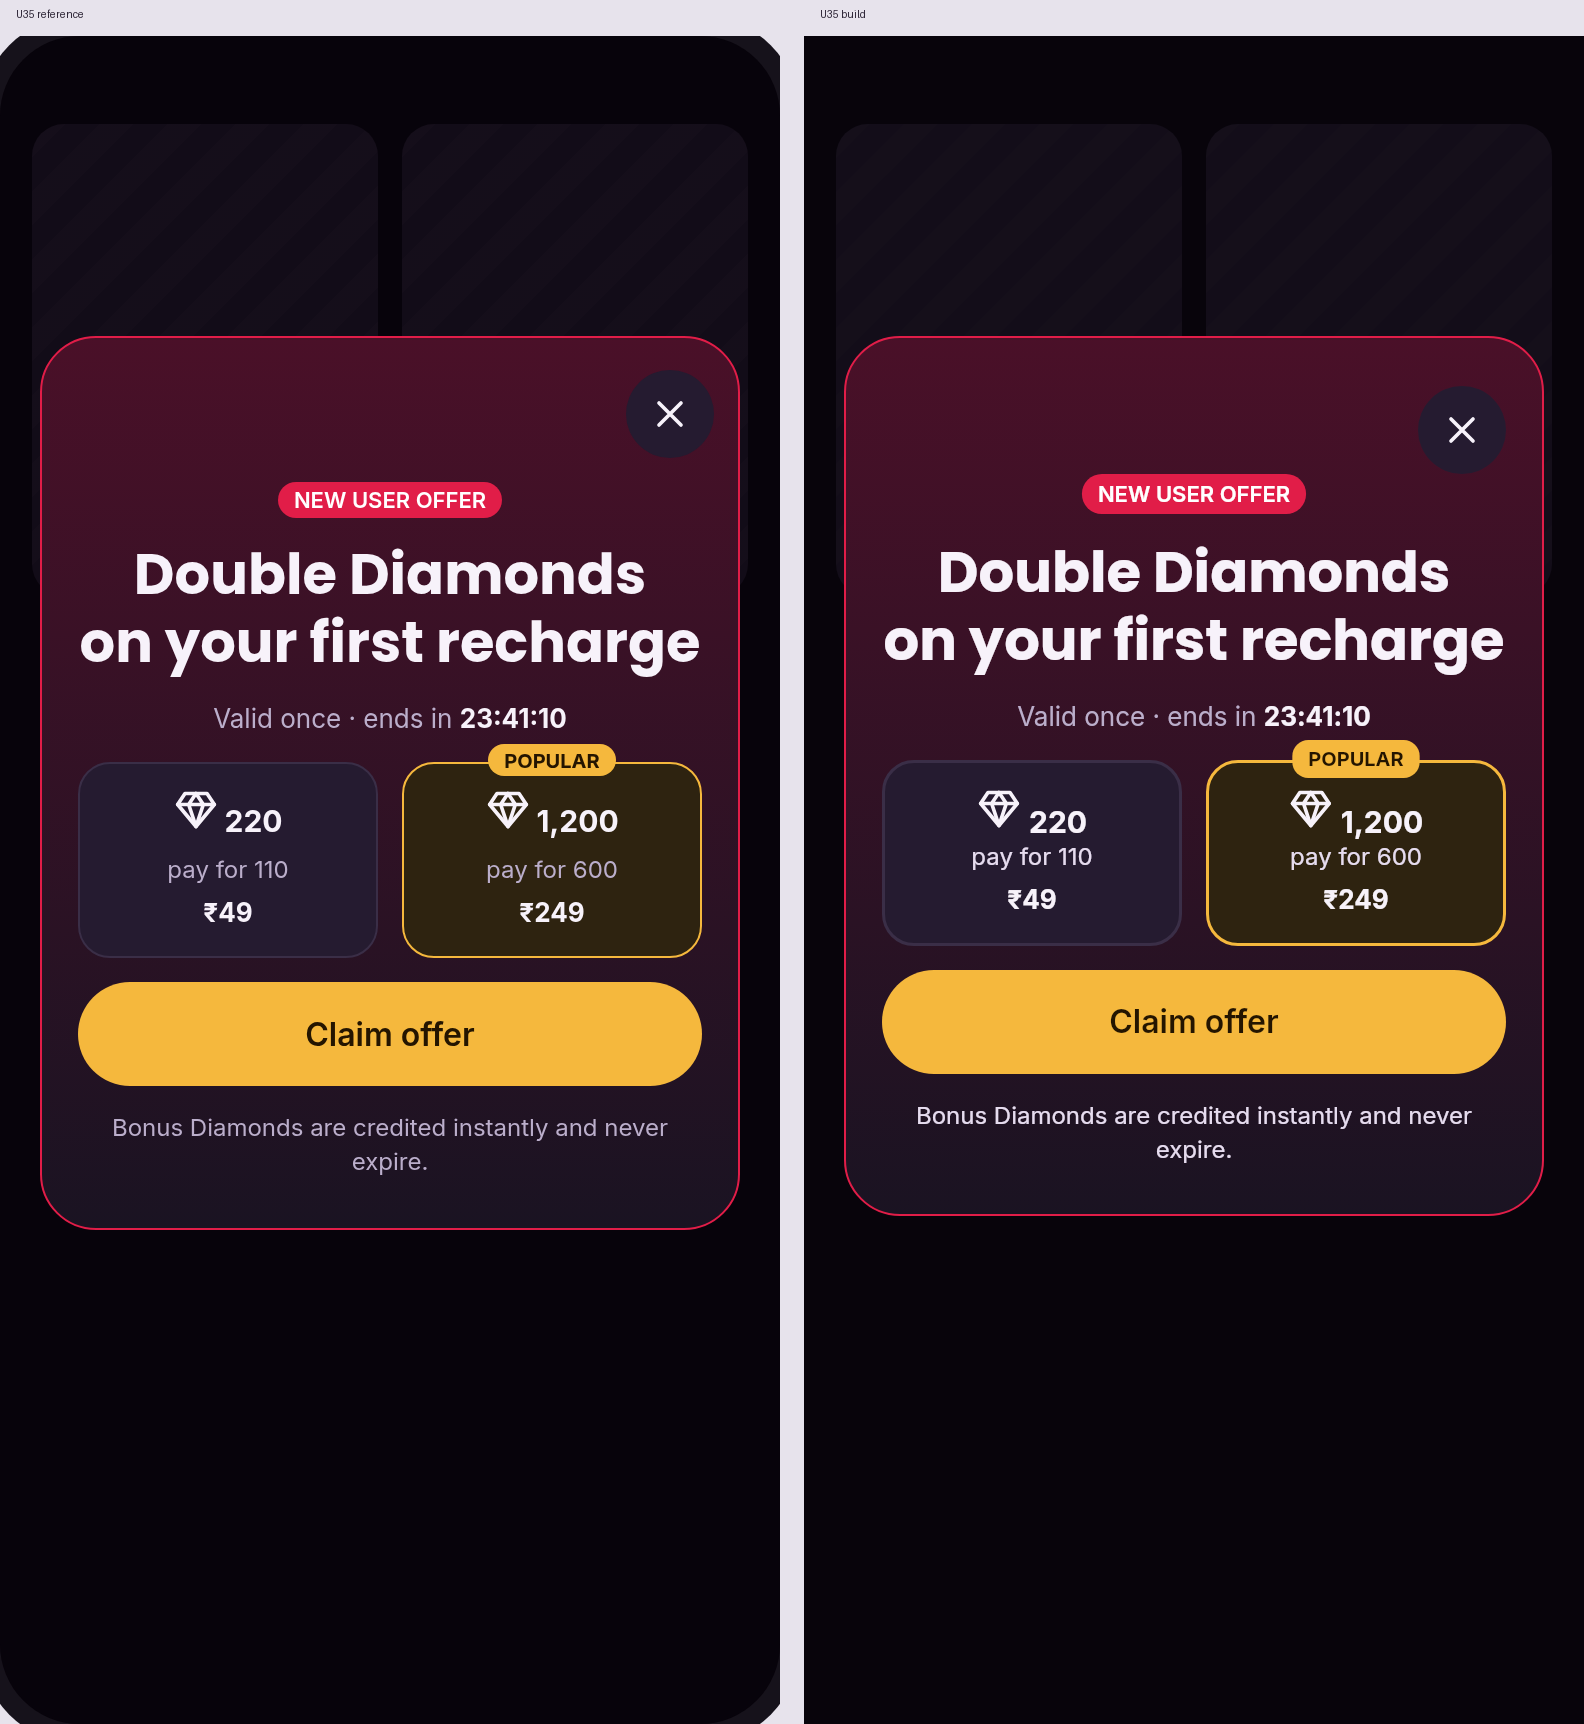
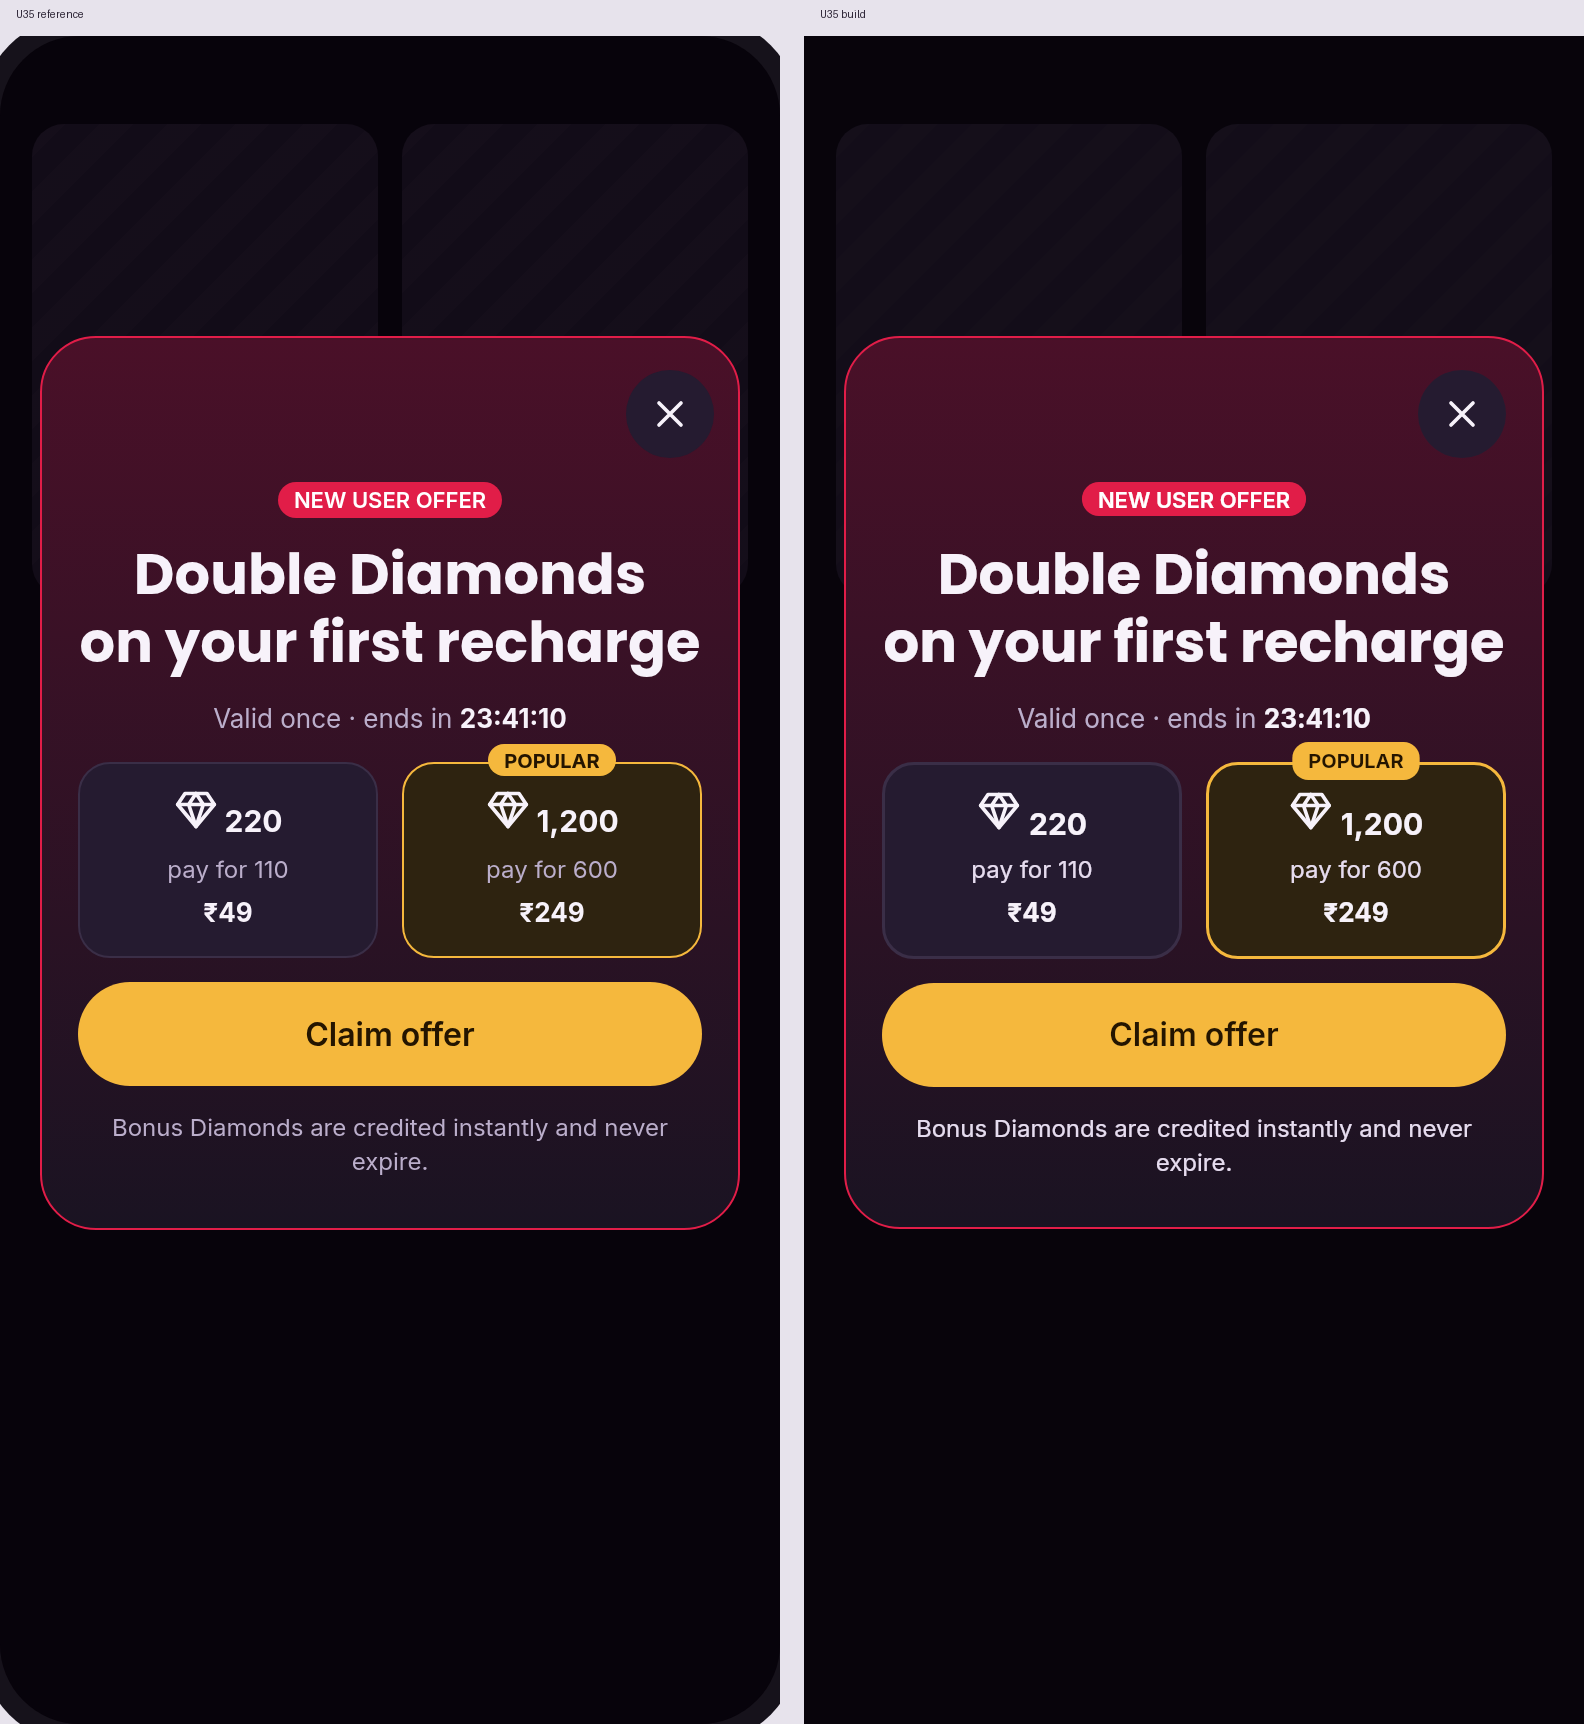
Line up the payment sheet, offer dialog, and wallet history.
The payment sheet gets its grabber and the diamond row's line box. The offer badge and the history segments use the font shorthand's normal line-height, and the offer pack count keeps the same line box as the artboard.

diff --git a/apps/user/lib/src/wallet/screens.dart b/apps/user/lib/src/wallet/screens.dart
@@ -149,6 +149,7 @@ class PayMethodScreen extends StatelessWidget {
               alignment: Alignment.bottomCenter,
               child: _Sheet(
                 children: [
+                  const Center(child: _Grabber()),
                   Row(
                     children: [
                       Expanded(
@@ -160,7 +161,14 @@ class PayMethodScreen extends StatelessWidget {
                   _Card(
                     child: Row(
                       children: [
-                        const KsIcon(KsIcons.gem, color: UserColors.gold),
+                        // The gem's line box hangs below the 22px glyph.
+                        const SizedBox(
+                          height: 27.5,
+                          child: Align(
+                            alignment: Alignment.topCenter,
+                            child: KsIcon(KsIcons.gem, color: UserColors.gold),
+                          ),
+                        ),
                         const SizedBox(width: 12),
                         const Expanded(
                           child: Text(
@@ -415,7 +423,9 @@ class _OfferDialog extends StatelessWidget {
   @override
   Widget build(BuildContext context) {
     return Container(
-      padding: const EdgeInsets.fromLTRB(18, 24, 18, 24),
+      // CSS padding is 24, and the close control's margin-top is -8,
+      // so the control starts 16px below the border.
+      padding: const EdgeInsets.fromLTRB(18, 16, 18, 24),
       decoration: BoxDecoration(
         gradient: const LinearGradient(
           begin: Alignment.topCenter,
@@ -431,6 +441,7 @@ class _OfferDialog extends StatelessWidget {
             alignment: Alignment.centerRight,
             child: KsIconButton(icon: KsIcons.x),
           ),
+          const SizedBox(height: 12),
           const _Pill('NEW USER OFFER'),
           const SizedBox(height: 12),
           Text(
@@ -688,29 +699,29 @@ class _BalanceCard extends StatelessWidget {
         // The row itself stays put.
         padding: const EdgeInsets.fromLTRB(14, 14, 14, 17),
         child: Row(
-        children: [
-          const KsIcon(KsIcons.gem, color: UserColors.gold),
-          const SizedBox(width: 12),
-          Expanded(
-            child: Column(
-              crossAxisAlignment: CrossAxisAlignment.start,
-              children: [
-                Text(
-                  'Your balance',
-                  style: UserText.xs.copyWith(fontWeight: FontWeight.w400),
-                ),
-                // CSS `font: 700 26px Poppins` resets line-height to the
-                // font's normal 1.5. An explicit shorter height lifts the
-                // whole store below this card.
-                Text('$diamonds', style: UserText.balance),
-              ],
+          children: [
+            const KsIcon(KsIcons.gem, color: UserColors.gold),
+            const SizedBox(width: 12),
+            Expanded(
+              child: Column(
+                crossAxisAlignment: CrossAxisAlignment.start,
+                children: [
+                  Text(
+                    'Your balance',
+                    style: UserText.xs.copyWith(fontWeight: FontWeight.w400),
+                  ),
+                  // CSS `font: 700 26px Poppins` resets line-height to the
+                  // font's normal 1.5. An explicit shorter height lifts the
+                  // whole store below this card.
+                  Text('$diamonds', style: UserText.balance),
+                ],
+              ),
             ),
-          ),
-          Text(
-            '≈ $minutes min of calls',
-            style: UserText.xs.copyWith(fontWeight: FontWeight.w400),
-          ),
-        ],
+            Text(
+              '≈ $minutes min of calls',
+              style: UserText.xs.copyWith(fontWeight: FontWeight.w400),
+            ),
+          ],
         ),
       ),
     );
@@ -806,7 +817,7 @@ class _StoreTile extends StatelessWidget {
               width: 1.5,
             ),
           ),
-            child: Column(
+          child: Column(
             children: [
               // `<b>` holds a 22px gem on the text baseline, so the line box
               // hangs ~6.5px below the glyph. The count stays at the top.
@@ -918,7 +929,17 @@ class _OfferTile extends StatelessWidget {
             ),
             child: Column(
               children: [
-                _GemLine(grouped(pack.diamonds), bold: true, size: 15),
+                SizedBox(
+                  height: 27.5,
+                  child: Align(
+                    alignment: Alignment.topCenter,
+                    child: _GemLine(
+                      grouped(pack.diamonds),
+                      bold: true,
+                      size: 15,
+                    ),
+                  ),
+                ),
                 const SizedBox(height: 4),
                 Text(
                   'pay for ${grouped(pack.payFor)}',
@@ -1184,12 +1205,31 @@ class _Segments extends StatelessWidget {
                   labels[i],
                   style: UserText.chip.copyWith(
                     color: i == 0 ? UserColors.white : UserColors.muted,
+                    // `.seg span` uses `font: 500 13px`, which resets
+                    // line-height to the font's normal 1.21.
+                    height: 1.21,
                   ),
                 ),
               ),
             ),
           ],
         ],
+      ),
+    );
+  }
+}
+
+class _Grabber extends StatelessWidget {
+  const _Grabber();
+
+  @override
+  Widget build(BuildContext context) {
+    return Container(
+      width: 40,
+      height: 4,
+      decoration: BoxDecoration(
+        color: UserColors.line,
+        borderRadius: BorderRadius.circular(UserRadii.hairline),
       ),
     );
   }
@@ -1294,7 +1334,7 @@ class _Pill extends StatelessWidget {
         color: UserColors.primary,
         borderRadius: BorderRadius.circular(UserRadii.badge),
       ),
-      child: Text(label, style: UserText.badge),
+      child: Text(label, style: UserText.badge.copyWith(height: 1.21)),
     );
   }
 }
